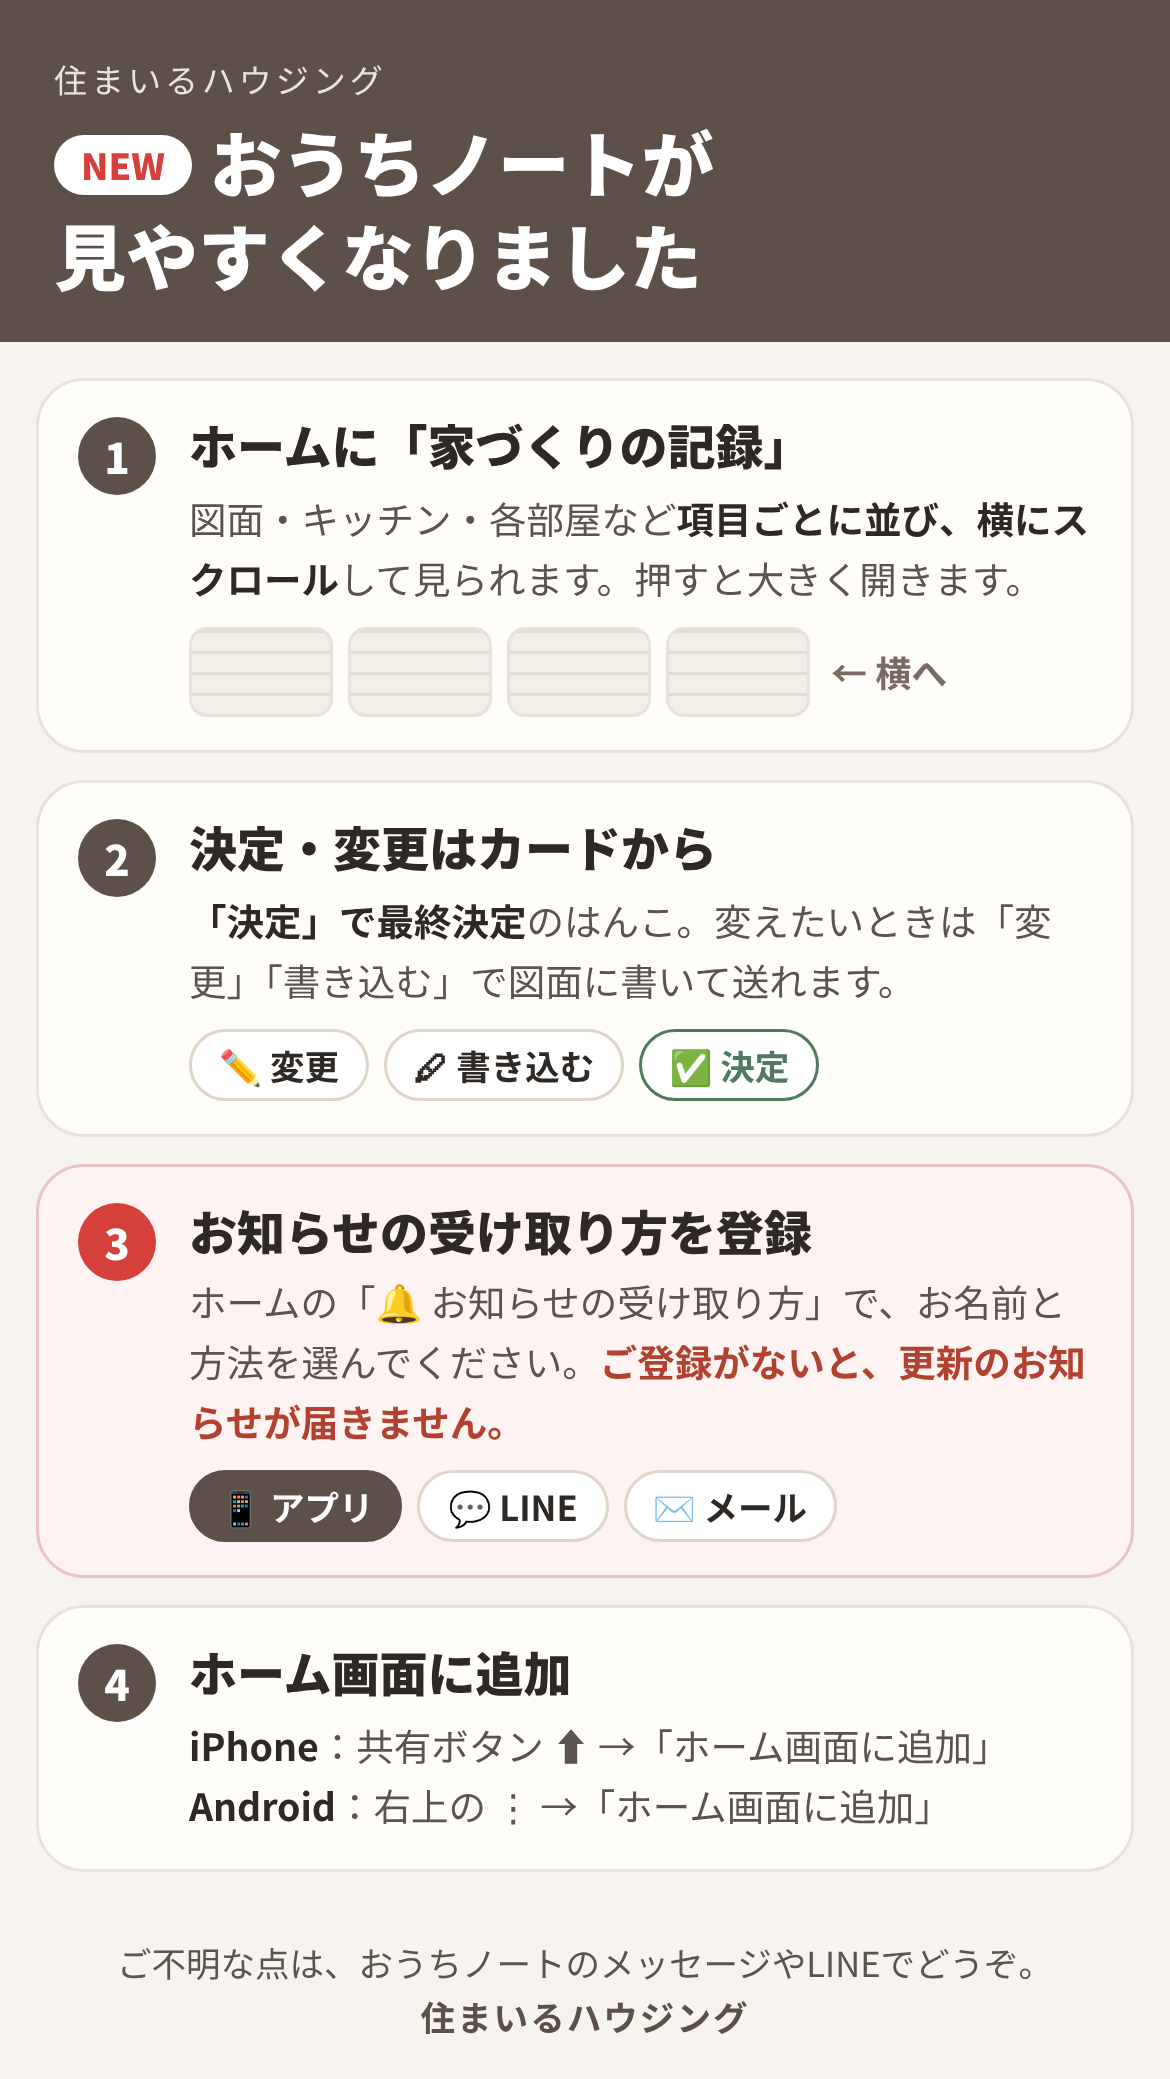
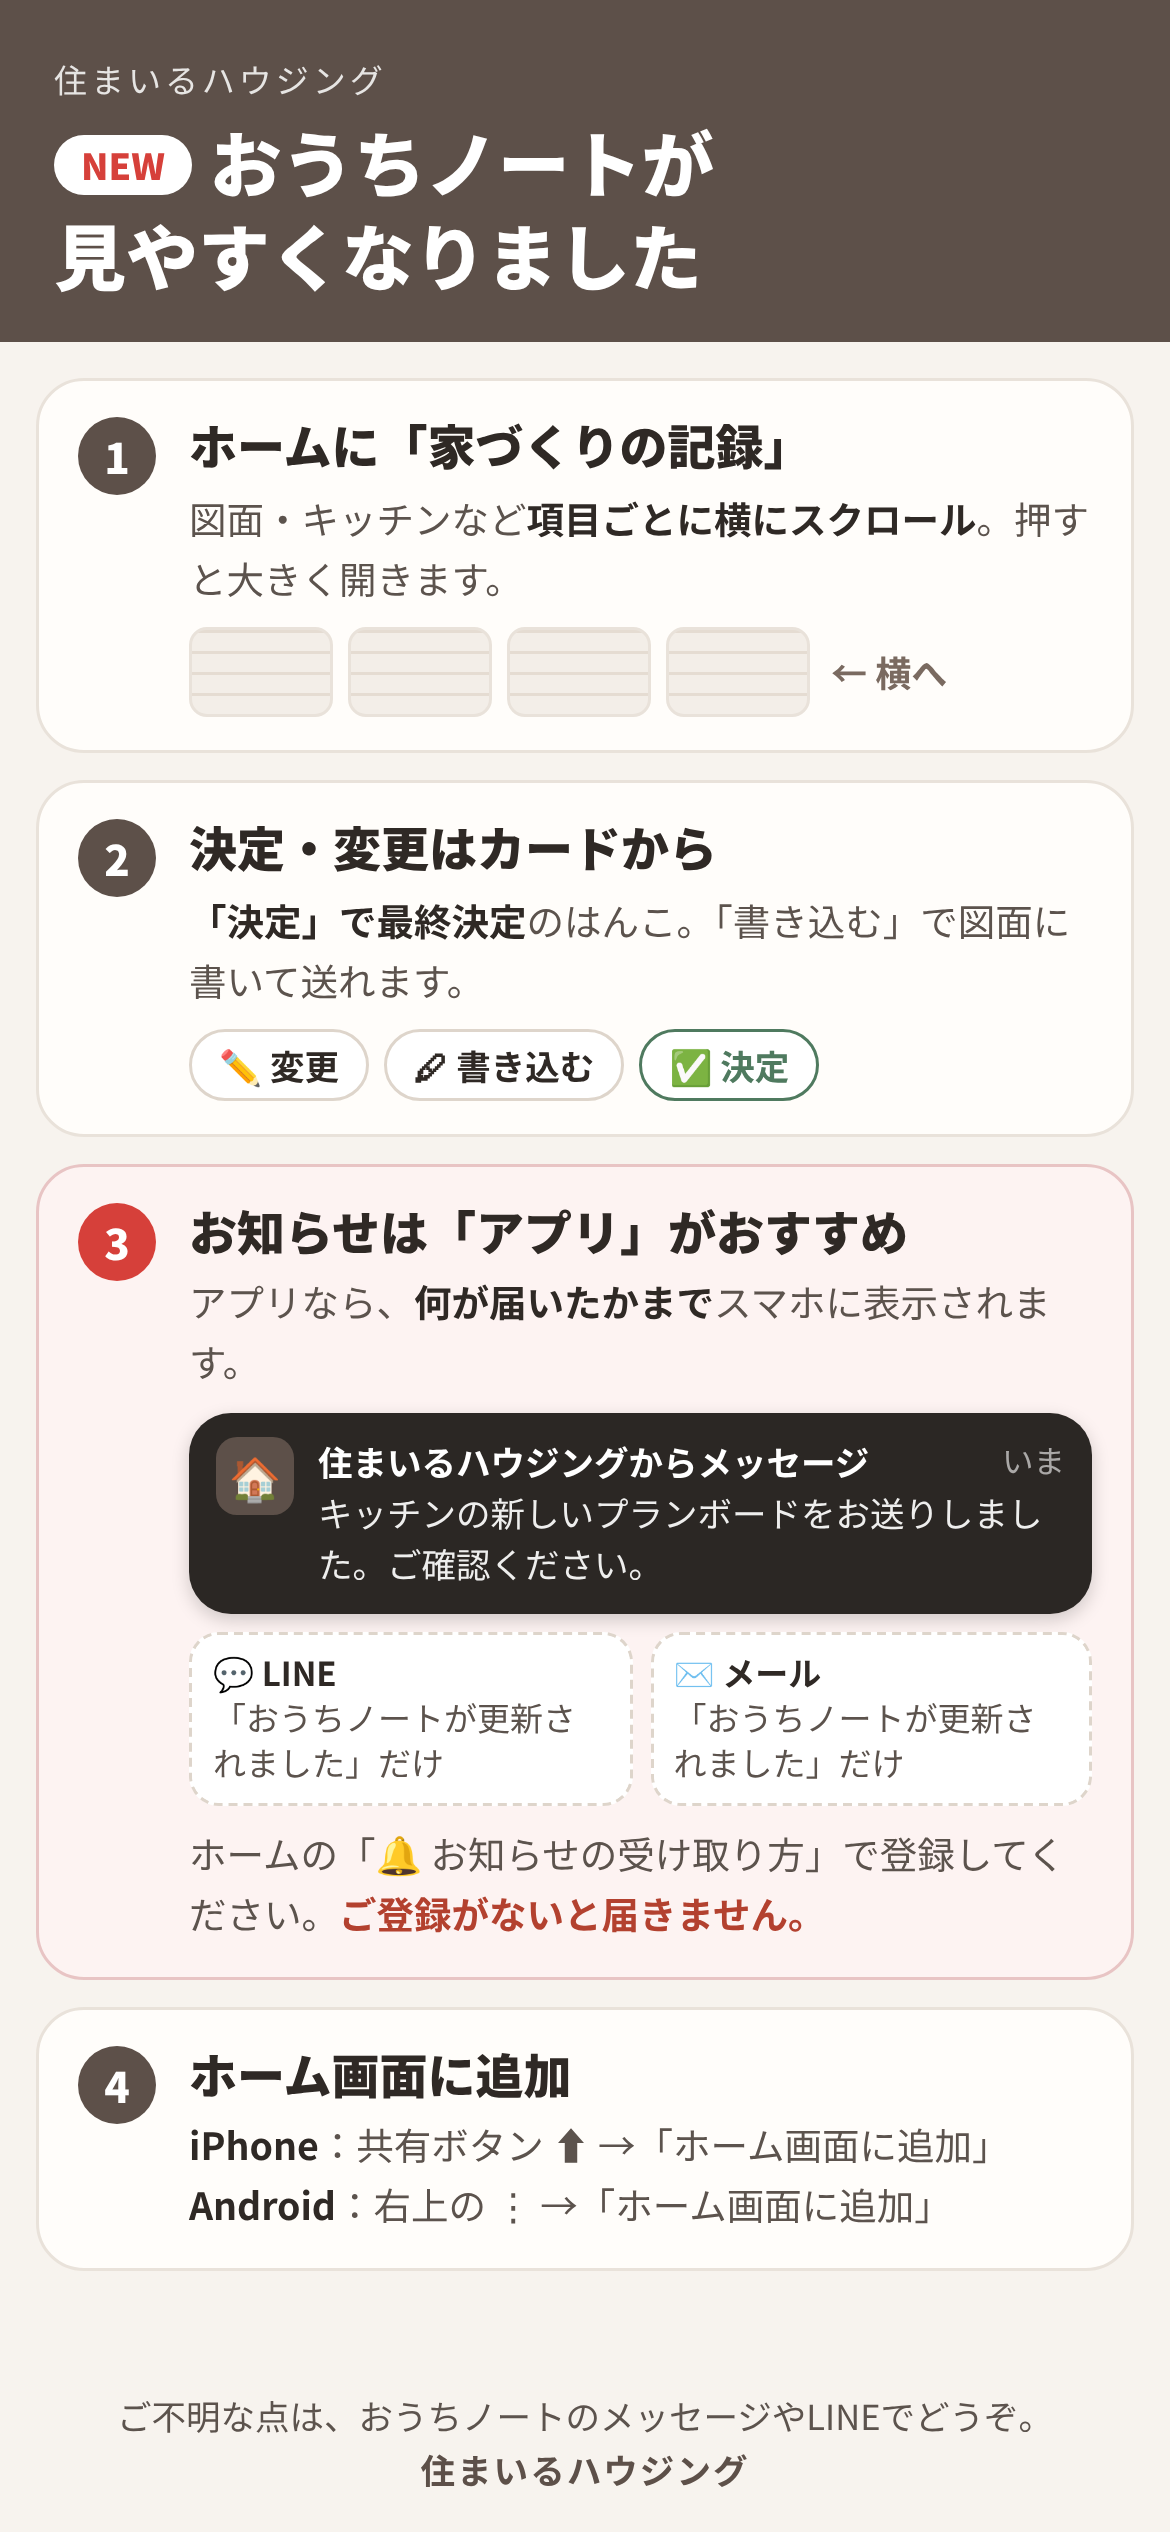
チラシにアプリの通知の見え方を・お知らせのメールは「更新されました」だけに
Claude-Session: https://claude.ai/code/session_0112dCCnVMtsc6Ue3e8LcirG

diff --git a/docs/flyer/okainote-new-1.html b/docs/flyer/okainote-new-1.html
@@ -6,7 +6,7 @@
 :root{--bg:#f7f3ee;--card:#fffdfa;--line:#e9e2da;--line2:#ded5cb;--ink:#2f2925;--ink2:#5c534d;--brown:#5d5049;--brown2:#7a6a60;--green:#4f7a5f;--red:#d6403a}
 *{box-sizing:border-box}
 body{margin:0;font-family:"Noto Sans JP",sans-serif;color:var(--ink)}
-.fl{width:390px;height:693px;background:var(--bg);display:flex;flex-direction:column;overflow:hidden}
+.fl{width:390px;height:844px;background:var(--bg);display:flex;flex-direction:column;overflow:hidden}
 .hero{background:var(--brown);color:#fff;padding:18px 18px 14px}
 .hero .co{font-size:11px;letter-spacing:.12em;opacity:.85}
 .hero h1{margin:4px 0 0;font-size:24px;font-weight:900;line-height:1.3}
@@ -27,6 +27,15 @@ body{margin:0;font-family:"Noto Sans JP",sans-serif;color:var(--ink)}
 .box.warn{border-color:#e8c4c4;background:#fdf3f2}
 .box.warn .n{background:var(--red)}
 .box.warn em{font-style:normal;color:#b3412f;font-weight:700}
+.ntf{margin-top:7px;background:#2b2724;border-radius:14px;padding:8px 9px;color:#fff;display:flex;gap:8px;align-items:flex-start;box-shadow:0 2px 6px rgba(0,0,0,.18)}
+.ntf .ap{flex:0 0 26px;height:26px;border-radius:7px;background:var(--brown);display:flex;align-items:center;justify-content:center;font-size:14px}
+.ntf .t{font-size:11.5px;font-weight:700;display:flex;justify-content:space-between;gap:6px}
+.ntf .t span{font-weight:400;opacity:.6;font-size:10.5px}
+.ntf .b{font-size:11.5px;opacity:.92;line-height:1.45;margin-top:1px}
+.vs{display:flex;gap:6px;margin-top:6px}
+.vs div{flex:1;border:1.5px dashed var(--line2);background:#fff;border-radius:10px;padding:5px 7px;font-size:11px;color:var(--ink2);line-height:1.4}
+.vs b{display:block;font-size:11px;color:var(--ink)}
+.rec{display:inline-block;background:var(--brown);color:#fff;border-radius:999px;font-size:10.5px;font-weight:700;padding:1px 7px;margin-left:4px;vertical-align:2px}
 .foot{text-align:center;font-size:11.5px;color:var(--ink2);padding:9px 10px 11px;line-height:1.55}
 .foot b{color:var(--brown);letter-spacing:.06em}
 </style></head><body><div class="fl">
@@ -37,18 +46,22 @@ body{margin:0;font-family:"Noto Sans JP",sans-serif;color:var(--ink)}
 <div class="body">
   <div class="box"><div class="n">1</div><div>
     <h2>ホームに「家づくりの記録」</h2>
-    <p>図面・キッチン・各部屋など<b>項目ごとに並び、横にスクロール</b>して見られます。押すと大きく開きます。</p>
+    <p>図面・キッチンなど<b>項目ごとに横にスクロール</b>。押すと大きく開きます。</p>
     <div class="strip"><i></i><i></i><i></i><i></i><span>← 横へ</span></div>
   </div></div>
   <div class="box"><div class="n">2</div><div>
     <h2>決定・変更はカードから</h2>
-    <p><b>「決定」で最終決定</b>のはんこ。変えたいときは「変更」「書き込む」で図面に書いて送れます。</p>
+    <p><b>「決定」で最終決定</b>のはんこ。「書き込む」で図面に書いて送れます。</p>
     <div class="chips"><span class="chip">✏ 変更</span><span class="chip">🖊 書き込む</span><span class="chip g">✅ 決定</span></div>
   </div></div>
   <div class="box warn"><div class="n">3</div><div>
-    <h2>お知らせの受け取り方を登録</h2>
-    <p>ホームの「🔔 お知らせの受け取り方」で、お名前と方法を選んでください。<em>ご登録がないと、更新のお知らせが届きません。</em></p>
-    <div class="chips"><span class="chip d">📱 アプリ</span><span class="chip">💬 LINE</span><span class="chip">✉ メール</span></div>
+    <h2>お知らせは「アプリ」がおすすめ</h2>
+    <p>アプリなら、<b>何が届いたかまで</b>スマホに表示されます。</p>
+    <div class="ntf"><div class="ap">🏠</div><div style="flex:1">
+      <div class="t">住まいるハウジングからメッセージ<span>いま</span></div>
+      <div class="b">キッチンの新しいプランボードをお送りしました。ご確認ください。</div></div></div>
+    <div class="vs"><div><b>💬 LINE</b>「おうちノートが更新されました」だけ</div><div><b>✉ メール</b>「おうちノートが更新されました」だけ</div></div>
+    <p style="margin-top:6px">ホームの「🔔 お知らせの受け取り方」で登録してください。<em>ご登録がないと届きません。</em></p>
   </div></div>
   <div class="box"><div class="n">4</div><div>
     <h2>ホーム画面に追加</h2>
